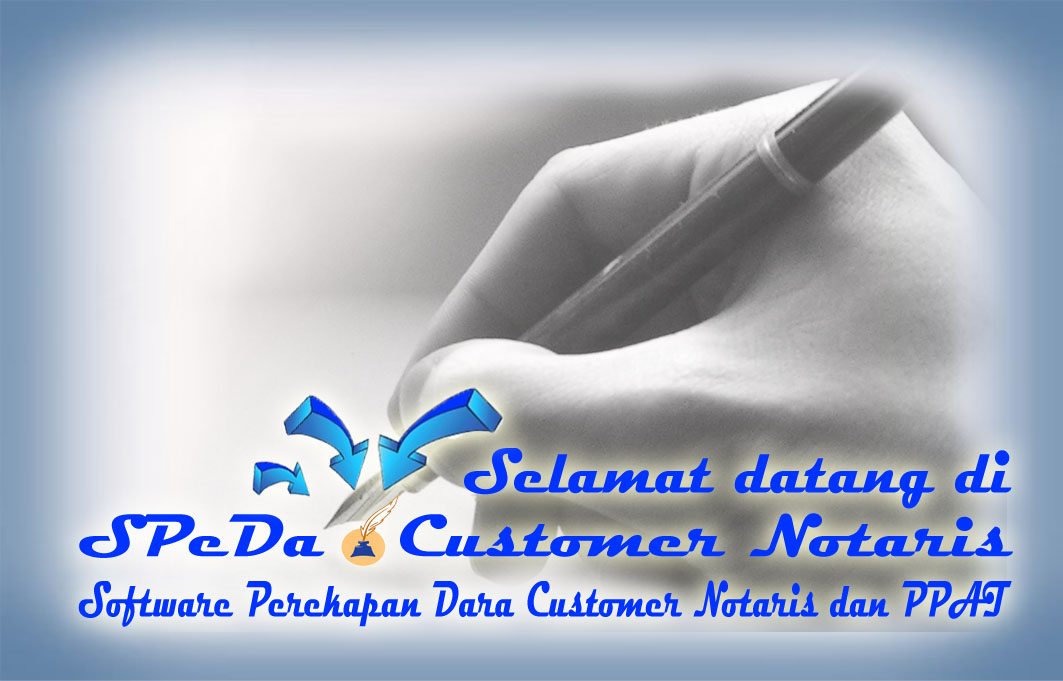
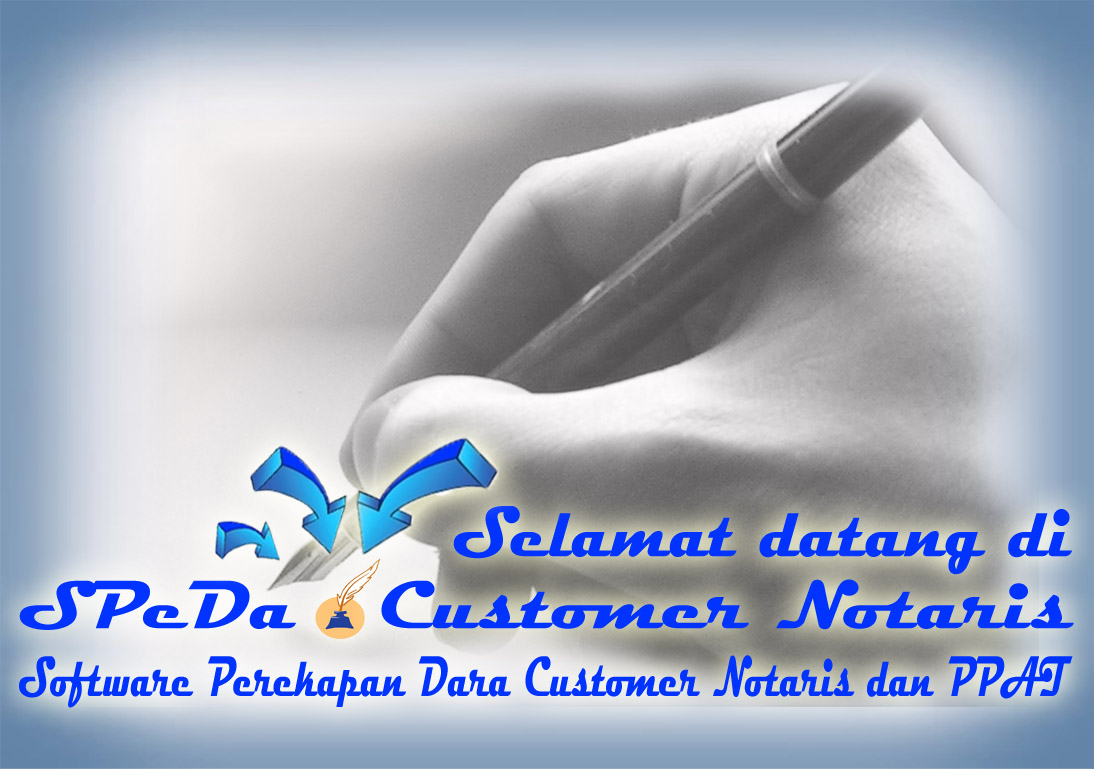
tampilan

Changed region(s): [[0.0, 0.0925, 0.9934, 0.9251], [0.1552, 0.37, 0.2484, 0.4317], [0.683, 0.5551, 0.7451, 0.6167]]

diff --git a/view/login.php b/view/login.php
@@ -1,4 +1,11 @@
+<style>
+                    body{
+                    background-image: url(./assets/img/bg.jpg);
+                    background-repeat: repeat;
 
+                }
+                
+</style>
 <!-- Navbar ================================================== -->
 <div class="navbar navbar-fixed-top">
       <div class="navbar-inner">
@@ -6,7 +13,7 @@
             <ul class="nav pull-left">
 <!--        menu kiri        -->
             </ul>
-                <p class="brand" style="margin: 0; margin-left: 22%; margin-top: 3px; padding: 0;"><img src="assets/img/header.png"/></p>
+                <p class="brand" style="margin: 0; margin-left: 25%; margin-top: 3px; padding: 0;"><img src="assets/img/header.png"/></p>
 
                 <ul class="nav pull-right">
 <!--          menu kanan          -->
@@ -22,13 +29,18 @@
   <div class="container">
       <div class="content">
           <div class="row">
-              <div class="span3 login" style="margin-left: 35%">
+              <br />
+              <br />
+              <div class="span8" style="margin-left: 0%">
+                <img class="imgberanda" src="assets/img/login.jpg"/>
+              </div>
+              <div class="span1 login" style="margin-left: 5%">
                 <form id="login" method="post">
                     <div class="login-form">
                     <h2>Login</h2>
                         <fieldset>
                             <div>
-                                <input type="text" placeholder="Username" id="username" name="username">
+                                <input  type="text" placeholder="Username" id="username" name="username">
                             </div>
                             <div>
                                 <input style="width:152px;" type="password" placeholder="Password" id="password" name="password">
@@ -39,7 +51,17 @@
                     </div>
                 </form>
               </div>
+              
          </div>
+          
+          
+          
+             <!-- <div style="margin-top: -100px" class="row">
+              <div class="span6" style="margin-left: 28%">
+                <img class="imgberanda" src="assets/img/login.jpg"/>
+              </div> -->
+         </div>     
+          
       </div>
   </div>
       <br/><br/><br/><br/><br/><br/><br/><br/><br/><br/><br/><br/><br/><br/><br/><br/><br/><br/><br/><br/><br/><br/><br/>

diff --git a/view/header.php b/view/header.php
@@ -44,15 +44,27 @@
                 }
                 .login{
                     background-color: #fff;
-                    padding: 8px 25px;;
+                    padding: 1px 120px;
+                    padding-left: 20px;
+                    padding-right: 180px;
                     margin: 0 -10px;
                     -webkit-border-radius: 10px 10px 10px 10px;
                     -moz-border-radius: 10px 10px 10px 10px;
                     border-radius: 10px 10px 10px 10px;
-                    -webkit-box-shadow: 0 2px 4px rgba(0,0,0,.15);
-                    -moz-box-shadow: 0 2px 4px rgba(0,0,0,.15);
-                    box-shadow: 0 2px 4px rgba(0,0,0,.15);
+                         box-shadow: 0 0 10px rgba(129, 168, 206, 1);
+                    -webkit-box-shadow: 0 0 10px rgba(129, 168, 206, 1);
+                    -moz-box-shadow: 0 0 10px rgba(129, 168, 206, 1);
                 }
+                
+                .imgberanda{
+                    -webkit-border-radius: 10px 10px 10px 10px;
+                   -moz-border-radius: 10px 10px 10px 10px;
+                   border-radius: 10px 10px 10px 10px;
+                    box-shadow: 0 0 10px rgba(129, 168, 206, 1);
+                    -webkit-box-shadow: 0 0 10px rgba(129, 168, 206, 1);
+                    -moz-box-shadow: 0 0 10px rgba(129, 168, 206, 1);
+                }
+                
                 .menu li{
                 }
                 .submenu li{

diff --git a/view/menu.php b/view/menu.php
@@ -14,7 +14,7 @@
             <ul class="nav pull-left">
 <!--        menu kiri        -->
             </ul>
-                <p class="brand" style="margin: 0; margin-left: 22%; margin-top: 3px; padding: 0;"><img src="assets/img/header.png"/></p>
+                <p class="brand" style="margin: 0; margin-left: 25%; margin-top: 3px; padding: 0;"><img src="assets/img/header.png"/></p>
 
                 <ul class="nav pull-right">
 <!--          menu kanan          -->
